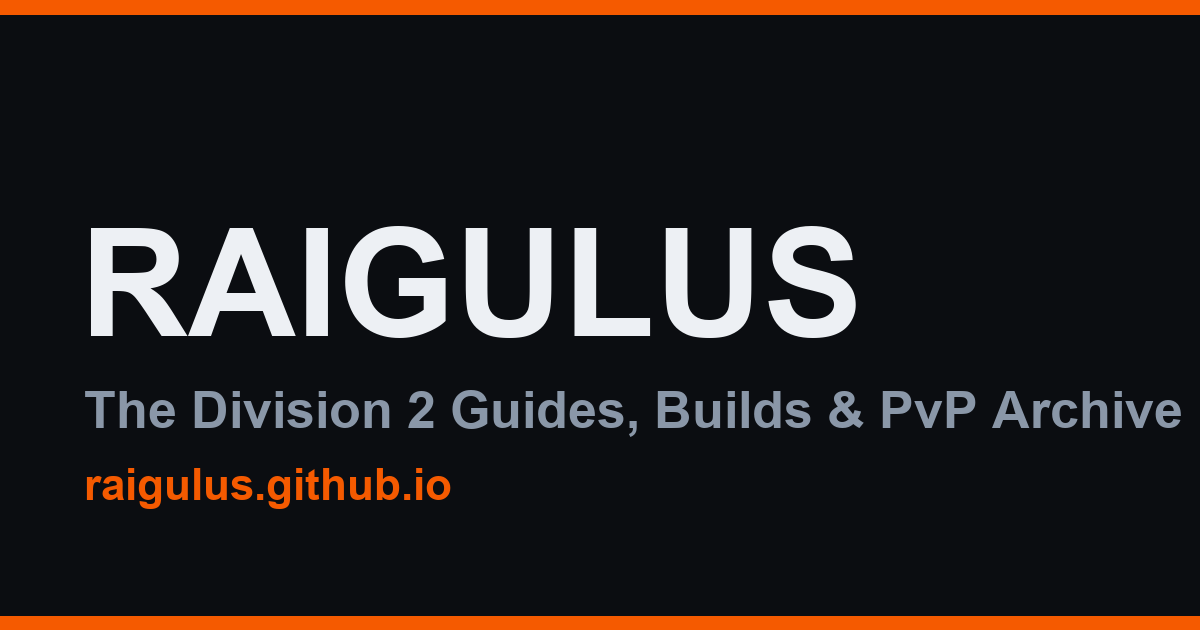
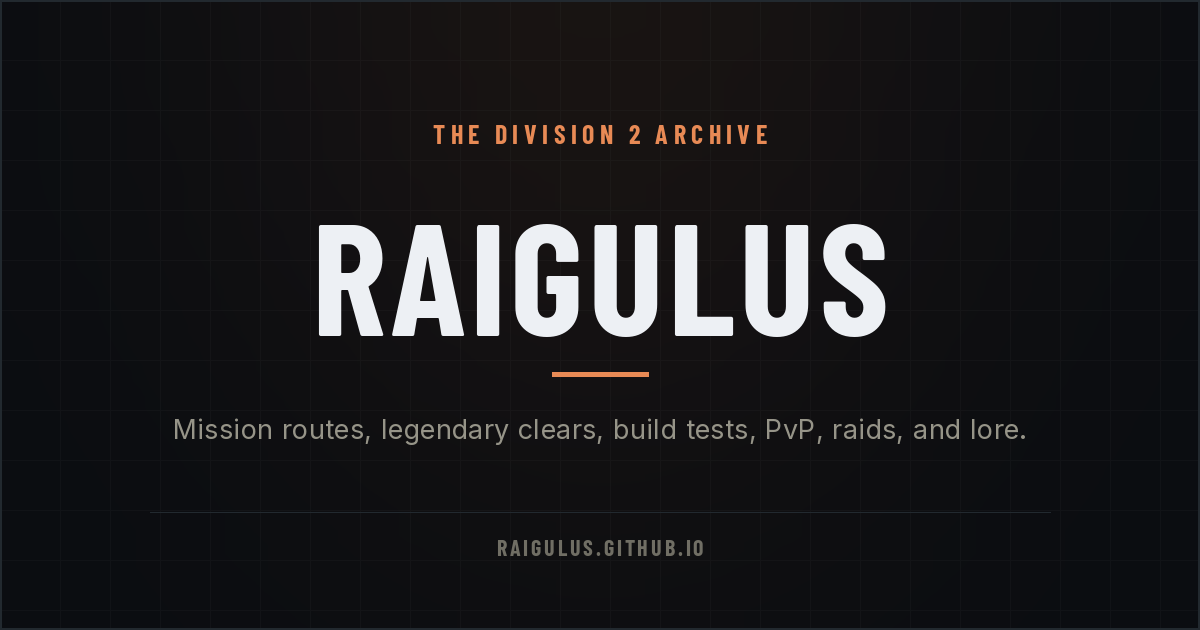
Rebrand the Open Graph card and declare its dimensions
The default share image was an unbranded placeholder, so shared links showed a bare card. It is now a 1200x630 poster built from the site's own palette and fonts (Barlow Condensed, Inter), with the RAIGULUS wordmark legible at WhatsApp thumbnail size.

The homepage points at it and declares og:site_name plus an alt text. The 27 other pages using the default image now declare og:image:width and og:image:height so crawlers size the card without a second fetch. None of those pages are generated, so no template needs the change.

diff --git a/index.html b/index.html
@@ -14,8 +14,12 @@
   <meta property="og:type" content="website">
   <meta property="og:url" content="https://raigulus.github.io/">
   <meta name="twitter:card" content="summary_large_image">
-  <meta property="og:image" content="https://raigulus.github.io/assets/img/yt/fi5m59SImlg-maxresdefault.jpg">
-  <meta name="twitter:image" content="https://raigulus.github.io/assets/img/yt/fi5m59SImlg-maxresdefault.jpg">
+  <meta property="og:site_name" content="Raigulus">
+  <meta property="og:image" content="https://raigulus.github.io/assets/og-default.png">
+  <meta property="og:image:width" content="1200">
+  <meta property="og:image:height" content="630">
+  <meta property="og:image:alt" content="Raigulus: The Division 2 archive of mission routes, legendary clears, build tests, PvP, raids and lore.">
+  <meta name="twitter:image" content="https://raigulus.github.io/assets/og-default.png">
 <noscript></noscript>
     <link rel="preload" as="font" type="font/woff2" crossorigin href="/assets/fonts/barlow-condensed-700-latin.woff2">
     <link rel="preload" as="font" type="font/woff2" crossorigin href="/assets/fonts/inter-400-latin.woff2">

diff --git a/diablo-4/world-bosses/wandering-death/index.html b/diablo-4/world-bosses/wandering-death/index.html
@@ -14,6 +14,8 @@
   <meta property="og:url" content="https://raigulus.github.io/diablo-4/world-bosses/wandering-death/">
   <meta name="twitter:card" content="summary_large_image">
   <meta property="og:image" content="https://raigulus.github.io/assets/og-default.png">
+  <meta property="og:image:width" content="1200">
+  <meta property="og:image:height" content="630">
   <meta name="twitter:image" content="https://raigulus.github.io/assets/og-default.png">
   <link rel="preload" as="font" type="font/woff2" crossorigin href="/assets/fonts/barlow-condensed-700-latin.woff2">
   <link rel="preload" as="font" type="font/woff2" crossorigin href="/assets/fonts/inter-400-latin.woff2">

diff --git a/destiny-2/lost-sector-exotics/index.html b/destiny-2/lost-sector-exotics/index.html
@@ -15,6 +15,8 @@
   <meta property="og:url" content="https://raigulus.github.io/destiny-2/lost-sector-exotics/">
   <meta name="twitter:card" content="summary_large_image">
   <meta property="og:image" content="https://raigulus.github.io/assets/og-default.png">
+  <meta property="og:image:width" content="1200">
+  <meta property="og:image:height" content="630">
   <meta name="twitter:image" content="https://raigulus.github.io/assets/og-default.png">
     <link rel="preload" as="font" type="font/woff2" crossorigin href="/assets/fonts/barlow-condensed-700-latin.woff2">
     <link rel="preload" as="font" type="font/woff2" crossorigin href="/assets/fonts/inter-400-latin.woff2">

diff --git a/destiny-2/lost-sector-tracker/index.html b/destiny-2/lost-sector-tracker/index.html
@@ -15,6 +15,8 @@
   <meta property="og:url" content="https://raigulus.github.io/destiny-2/lost-sector-tracker/">
   <meta name="twitter:card" content="summary_large_image">
   <meta property="og:image" content="https://raigulus.github.io/assets/og-default.png">
+  <meta property="og:image:width" content="1200">
+  <meta property="og:image:height" content="630">
   <meta name="twitter:image" content="https://raigulus.github.io/assets/og-default.png">
     <link rel="preload" as="font" type="font/woff2" crossorigin href="/assets/fonts/barlow-condensed-700-latin.woff2">
     <link rel="preload" as="font" type="font/woff2" crossorigin href="/assets/fonts/inter-400-latin.woff2">

diff --git a/diablo-4/helltide-schedule/index.html b/diablo-4/helltide-schedule/index.html
@@ -15,6 +15,8 @@
   <meta property="og:url" content="https://raigulus.github.io/diablo-4/helltide-schedule/">
   <meta name="twitter:card" content="summary_large_image">
   <meta property="og:image" content="https://raigulus.github.io/assets/og-default.png">
+  <meta property="og:image:width" content="1200">
+  <meta property="og:image:height" content="630">
   <meta name="twitter:image" content="https://raigulus.github.io/assets/og-default.png">
     <link rel="preload" as="font" type="font/woff2" crossorigin href="/assets/fonts/barlow-condensed-700-latin.woff2">
     <link rel="preload" as="font" type="font/woff2" crossorigin href="/assets/fonts/inter-400-latin.woff2">

diff --git a/diablo-4/world-boss-timer/index.html b/diablo-4/world-boss-timer/index.html
@@ -15,6 +15,8 @@
   <meta property="og:url" content="https://raigulus.github.io/diablo-4/world-boss-timer/">
   <meta name="twitter:card" content="summary_large_image">
   <meta property="og:image" content="https://raigulus.github.io/assets/og-default.png">
+  <meta property="og:image:width" content="1200">
+  <meta property="og:image:height" content="630">
   <meta name="twitter:image" content="https://raigulus.github.io/assets/og-default.png">
     <link rel="preload" as="font" type="font/woff2" crossorigin href="/assets/fonts/barlow-condensed-700-latin.woff2">
     <link rel="preload" as="font" type="font/woff2" crossorigin href="/assets/fonts/inter-400-latin.woff2">

diff --git a/diablo-4/world-bosses/avarice/index.html b/diablo-4/world-bosses/avarice/index.html
@@ -14,6 +14,8 @@
   <meta property="og:url" content="https://raigulus.github.io/diablo-4/world-bosses/avarice/">
   <meta name="twitter:card" content="summary_large_image">
   <meta property="og:image" content="https://raigulus.github.io/assets/og-default.png">
+  <meta property="og:image:width" content="1200">
+  <meta property="og:image:height" content="630">
   <meta name="twitter:image" content="https://raigulus.github.io/assets/og-default.png">
   <link rel="preload" as="font" type="font/woff2" crossorigin href="/assets/fonts/barlow-condensed-700-latin.woff2">
   <link rel="preload" as="font" type="font/woff2" crossorigin href="/assets/fonts/inter-400-latin.woff2">

diff --git a/diablo-4/world-bosses/azmodan/index.html b/diablo-4/world-bosses/azmodan/index.html
@@ -14,6 +14,8 @@
   <meta property="og:url" content="https://raigulus.github.io/diablo-4/world-bosses/azmodan/">
   <meta name="twitter:card" content="summary_large_image">
   <meta property="og:image" content="https://raigulus.github.io/assets/og-default.png">
+  <meta property="og:image:width" content="1200">
+  <meta property="og:image:height" content="630">
   <meta name="twitter:image" content="https://raigulus.github.io/assets/og-default.png">
   <link rel="preload" as="font" type="font/woff2" crossorigin href="/assets/fonts/barlow-condensed-700-latin.woff2">
   <link rel="preload" as="font" type="font/woff2" crossorigin href="/assets/fonts/inter-400-latin.woff2">

diff --git a/division-2/cassie-mendoza/index.html b/division-2/cassie-mendoza/index.html
@@ -15,6 +15,8 @@
   <meta property="og:url" content="https://raigulus.github.io/division-2/cassie-mendoza/">
   <meta name="twitter:card" content="summary_large_image">
   <meta property="og:image" content="https://raigulus.github.io/assets/og-default.png">
+  <meta property="og:image:width" content="1200">
+  <meta property="og:image:height" content="630">
   <meta name="twitter:image" content="https://raigulus.github.io/assets/og-default.png">
     <link rel="preload" as="font" type="font/woff2" crossorigin href="/assets/fonts/barlow-condensed-700-latin.woff2">
     <link rel="preload" as="font" type="font/woff2" crossorigin href="/assets/fonts/inter-400-latin.woff2">

diff --git a/diablo-4/world-bosses/ashava/index.html b/diablo-4/world-bosses/ashava/index.html
@@ -14,6 +14,8 @@
   <meta property="og:url" content="https://raigulus.github.io/diablo-4/world-bosses/ashava/">
   <meta name="twitter:card" content="summary_large_image">
   <meta property="og:image" content="https://raigulus.github.io/assets/og-default.png">
+  <meta property="og:image:width" content="1200">
+  <meta property="og:image:height" content="630">
   <meta name="twitter:image" content="https://raigulus.github.io/assets/og-default.png">
   <link rel="preload" as="font" type="font/woff2" crossorigin href="/assets/fonts/barlow-condensed-700-latin.woff2">
   <link rel="preload" as="font" type="font/woff2" crossorigin href="/assets/fonts/inter-400-latin.woff2">

diff --git a/division-2/build-maker/index.html b/division-2/build-maker/index.html
@@ -15,6 +15,8 @@
   <meta property="og:url" content="https://raigulus.github.io/division-2/build-maker/">
   <meta name="twitter:card" content="summary_large_image">
   <meta property="og:image" content="https://raigulus.github.io/assets/og-default.png">
+  <meta property="og:image:width" content="1200">
+  <meta property="og:image:height" content="630">
   <meta name="twitter:image" content="https://raigulus.github.io/assets/og-default.png">
     <link rel="preload" as="font" type="font/woff2" crossorigin href="/assets/fonts/barlow-condensed-700-latin.woff2">
     <link rel="preload" as="font" type="font/woff2" crossorigin href="/assets/fonts/inter-400-latin.woff2">

diff --git a/diablo-4/event-timer/index.html b/diablo-4/event-timer/index.html
@@ -15,6 +15,8 @@
   <meta property="og:url" content="https://raigulus.github.io/diablo-4/event-timer/">
   <meta name="twitter:card" content="summary_large_image">
   <meta property="og:image" content="https://raigulus.github.io/assets/og-default.png">
+  <meta property="og:image:width" content="1200">
+  <meta property="og:image:height" content="630">
   <meta name="twitter:image" content="https://raigulus.github.io/assets/og-default.png">
     <link rel="preload" as="font" type="font/woff2" crossorigin href="/assets/fonts/barlow-condensed-700-latin.woff2">
     <link rel="preload" as="font" type="font/woff2" crossorigin href="/assets/fonts/inter-400-latin.woff2">
